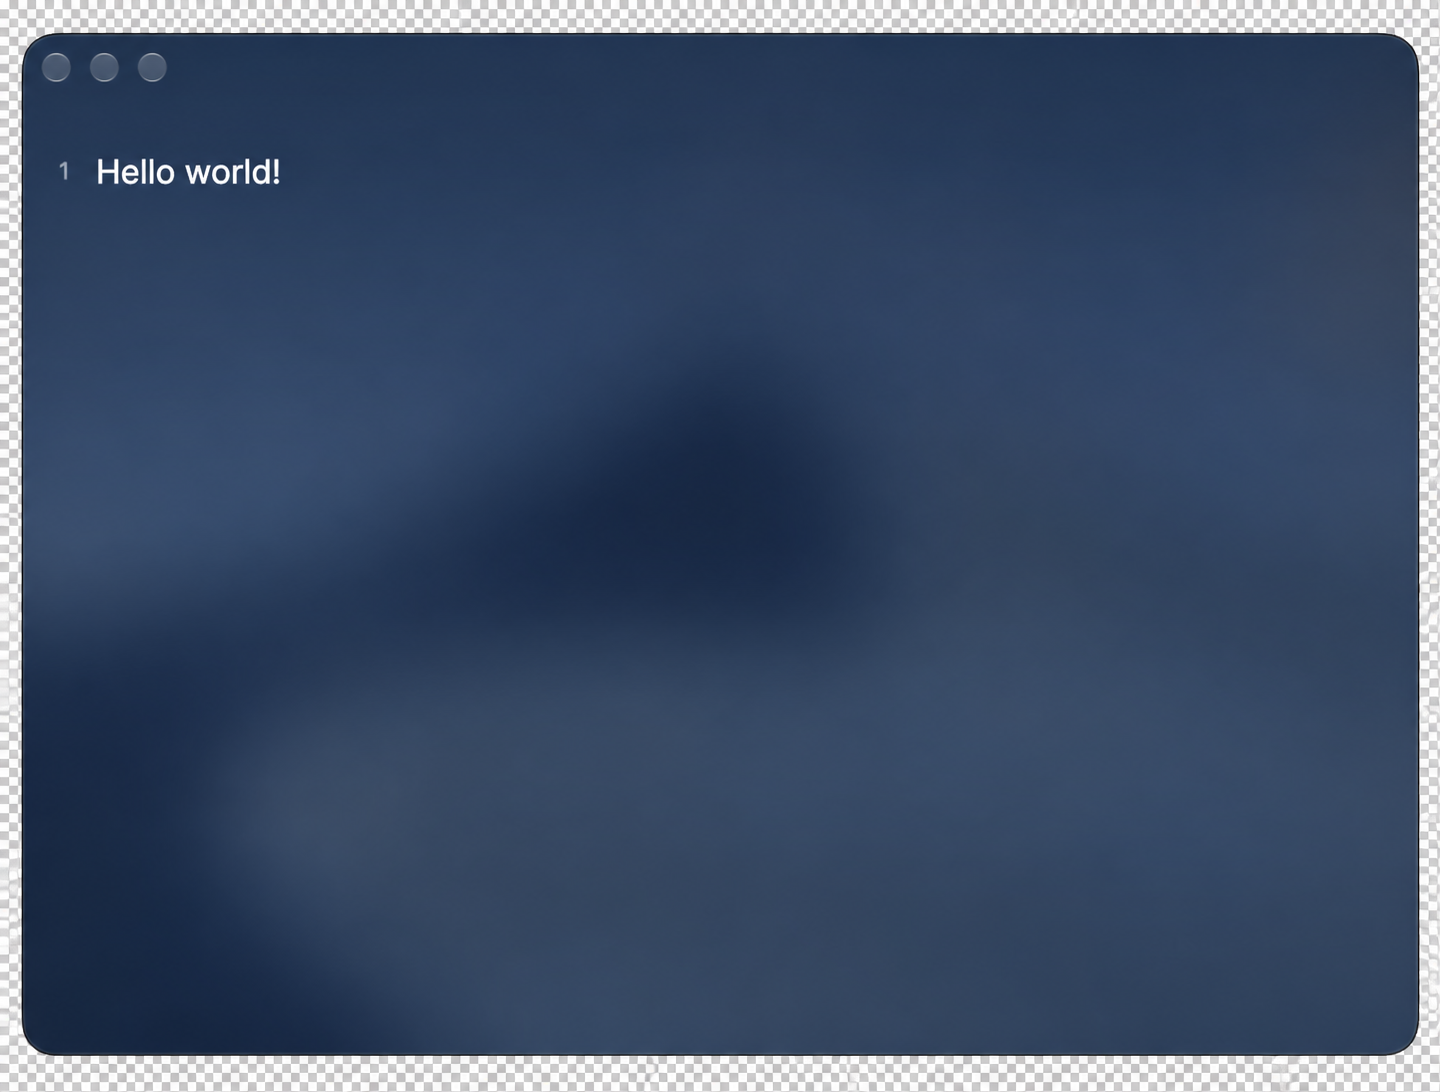
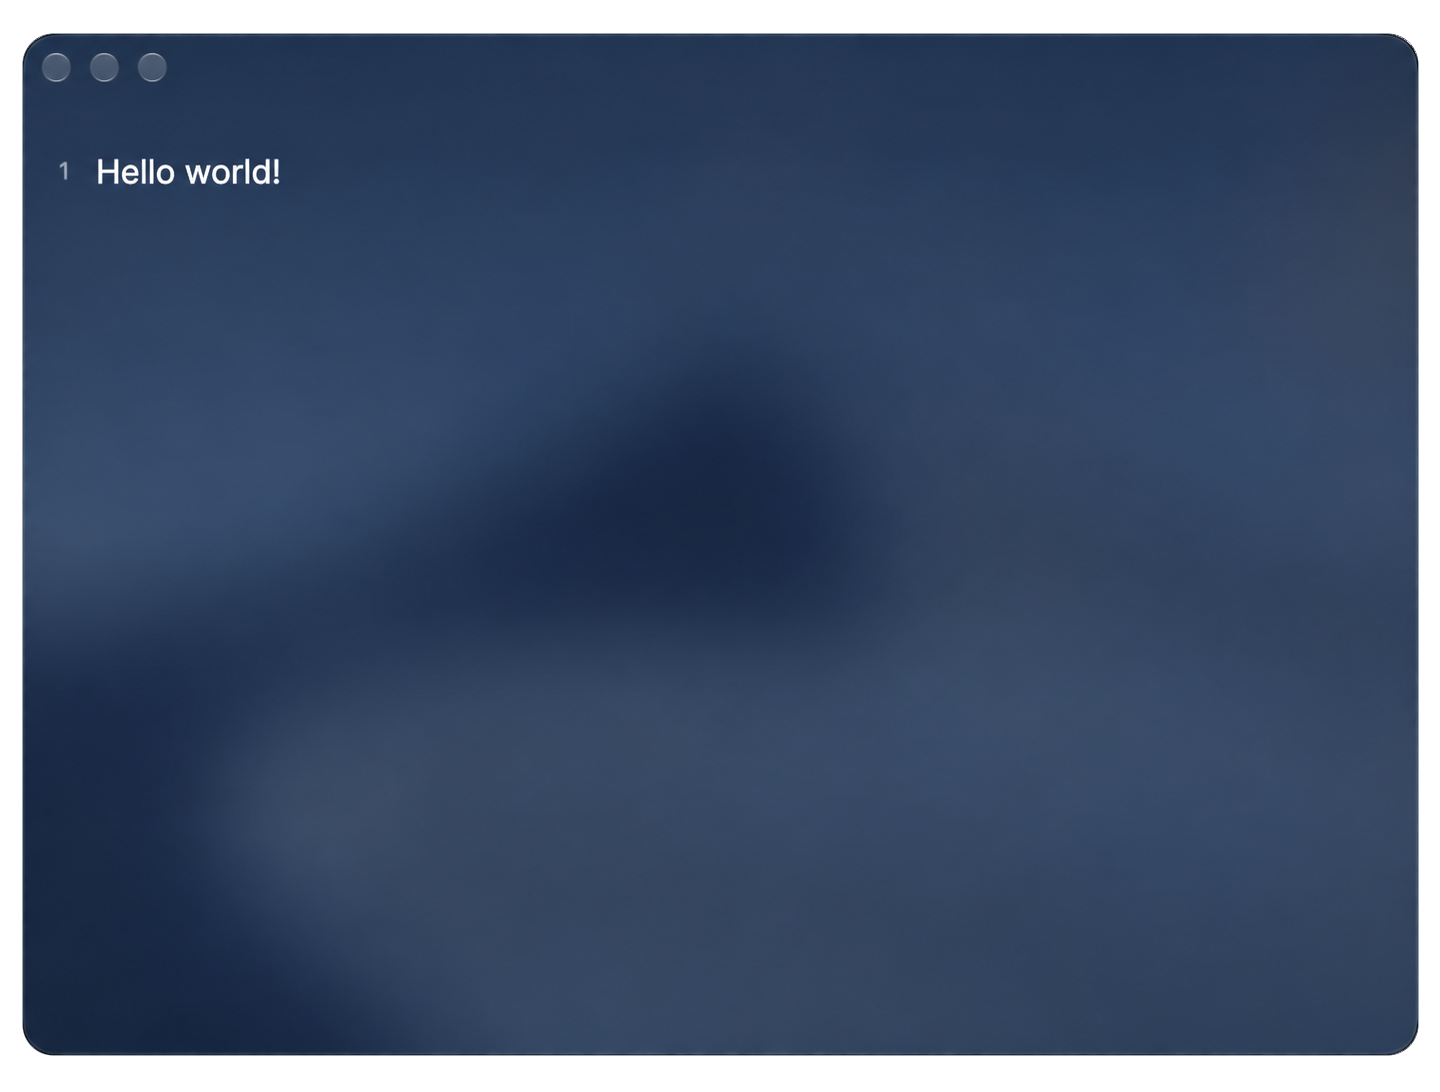
Docs: replace CLAUDE.md with AGENTS.md; give the README screenshot a transparent background
Rename the agent guide to AGENTS.md and translate it to pt-BR, updating the
README and .gitignore references. Rebuild vitro.png with a real alpha channel
(rounded window corners, transparent background) instead of the checkerboard
that was baked into the previous flat PNG.

Changed region(s): [[0.0, 0.0, 1.0, 1.0]]

diff --git a/AGENTS.md b/AGENTS.md
@@ -1,0 +1,78 @@
+# AGENTS.md
+
+Este arquivo orienta assistentes de IA (Claude Code, Codex, Cursor, Gemini CLI e
+afins) ao trabalhar com o código deste repositório.
+
+## O que é isto
+
+O Vitro é um editor de notas para macOS: texto rico com checkboxes interativos,
+persistido como JSON (Markdown apenas em Export explícito). As notas abrem como
+**abas de janela nativas do macOS**.
+
+**Requer macOS 26 (Tahoe) e Swift 6.** O deployment target e o comportamento de
+Liquid Glass / abas nativas dependem do SDK do Tahoe — ele não compila para macOS
+anteriores.
+
+## Compilar / executar
+
+- `swift build` — checagem rápida de compilação (SPM). Use para pegar erros rápido.
+- `sh scripts/run-local.sh` — o fluxo real: compila em **Release** via `xcodebuild`,
+  substitui `/Applications/Vitro.app` e o abre. Use para ver as mudanças no app de
+  verdade (assinado ad-hoc, sem notarização).
+- **`xcodegen generate` depois de adicionar, remover ou renomear qualquer arquivo-fonte.**
+  O projeto Xcode é gerado a partir do `project.yml` e sua lista de arquivos fica
+  desatualizada — o `swift build` passa, mas o `xcodebuild` (e portanto o
+  `run-local.sh`) falha com "cannot find X in scope". Não há testes.
+
+## Arquitetura
+
+Este é um **app em AppKit puro** (não é ciclo de vida SwiftUI). O ponto de entrada é
+código de topo em `main.swift`, que cria o `AppController` (NSApplicationDelegate). O
+motivo do AppKit puro é o controle de janelas: cada nota é sua própria subclasse de
+`NSWindow`, para podermos conduzir o tabbing nativo e o estilo da barra de título que o
+SwiftUI não expõe.
+
+**Camada de janela/abas** (`Sources/Vitro/Window/`):
+- `NoteWindow` — subclasse de `NSWindow`, uma por nota. Tabbing nativo de janela via um
+  `tabbingIdentifier` compartilhado (`.preferred` → `.automatic`); as abas aparecem na
+  posição padrão do sistema, abaixo de uma barra de título transparente de conteúdo
+  full-size (o estilo "native" de titlebar do Ghostty — o texto do título fica oculto,
+  já que as abas carregam os títulos). O botão "+" nativo funciona porque ele sobrescreve
+  `newWindowForTab(_:)`.
+- `NoteWindowController` — dono de um `NoteWindow` + uma `Note`, hospeda o editor via
+  `NSHostingView(EditorContent)` e mantém `window.title` / `window.tab.attributedTitle`
+  em sincronia com o título derivado da nota (e esmaece as abas inativas em key/resign).
+- `TabController` — cria e agrupa janelas (`addTabbedWindow`), cuida de nova/fechar e
+  persiste o conjunto de abas abertas. Pertence ao `AppController`; é alcançado a partir
+  do `NoteWindow` via `NSApp.delegate as? AppController`.
+- `AppKitSupport` — helpers de hierarquia de views (`firstDescendant(withClassName:)`,
+  `titlebarView`, etc.) para alcançar views privadas do AppKit pelo nome da classe.
+
+**Editor** (`Sources/Vitro/Editor/`): `RichTextEditor` envolve um `NSTextView` customizado
+(`CheckboxTextView`). Trocar de aba recria a view inteira (`.id(note.id)` mais acima), então
+`makeNSView` carrega do zero e `updateNSView` é no-op. Comandos do editor (inserir
+checklist, tamanho da fonte) são entregues como broadcasts de `NotificationCenter`
+(`.vitroInsertCheckbox`, `.vitroAdjustFont`) que o `CheckboxTextView` observa — as ações
+de menu do `AppController` os publicam. `Checkbox` também define o enum de export
+`Markdown`. `LineNumberRulerView` é a régua (gutter).
+
+**Models** (`Sources/Vitro/Models/`): `Note` é um `ObservableObject`; seu `title` é
+*derivado* da primeira linha não vazia do corpo (estilo Apple Notes) — não há título
+armazenado. `NotesStore` é dono de todas as notas e as salva com debounce como `notes.json`
+em Application Support. O export para um arquivo `.md` é separado e opt-in.
+
+## Convenções / armadilhas
+
+- **Uma única tipografia: Inter.** Use `Note.interFont(ofSize:weight:)` para qualquer fonte
+  (volta para a fonte do sistema se a Inter não estiver instalada). Não fixe
+  `NSFont.systemFont` no código.
+- **Liquid Glass:** o glass é o chrome nativo desenhado pelo SO (abas/barra de título no
+  Tahoe) mais o `VisualEffectBackground` (blur `.behindWindow`) atrás do conteúdo do editor.
+  Segundo a orientação da Apple, **não** coloque glass atrás do próprio texto do editor —
+  glass é para a camada de controle/navegação, não para o conteúdo.
+- **Chaves de persistência** (`UserDefaults`): `openTabs` / `selectedTab` (abas abertas) e
+  `editorFontSize`. Os corpos das notas vivem no `notes.json`, não no UserDefaults.
+- **Legado/não usado** do design anterior às abas nativas, mantido só para evitar uma
+  exclusão não solicitada: `Views/RootView.swift`, `Models/Workspace.swift` e o representable
+  `WindowConfigurator` em `Window/WindowConfigurator.swift` (o `VisualEffectBackground` dele
+  *ainda* é usado). Seguro de remover.

diff --git a/README.md b/README.md
@@ -70,7 +70,7 @@ xcodegen generate
 - `Sources/Vitro/Models/` — `Note` e a `NotesStore` que as persiste.
 - `main.swift` / `VitroApp.swift` — ponto de entrada em AppKit puro e o menu.
 
-Veja [CLAUDE.md](CLAUDE.md) para a arquitetura em profundidade.
+Veja [AGENTS.md](AGENTS.md) para a arquitetura em profundidade.
 
 ## Licença
 
